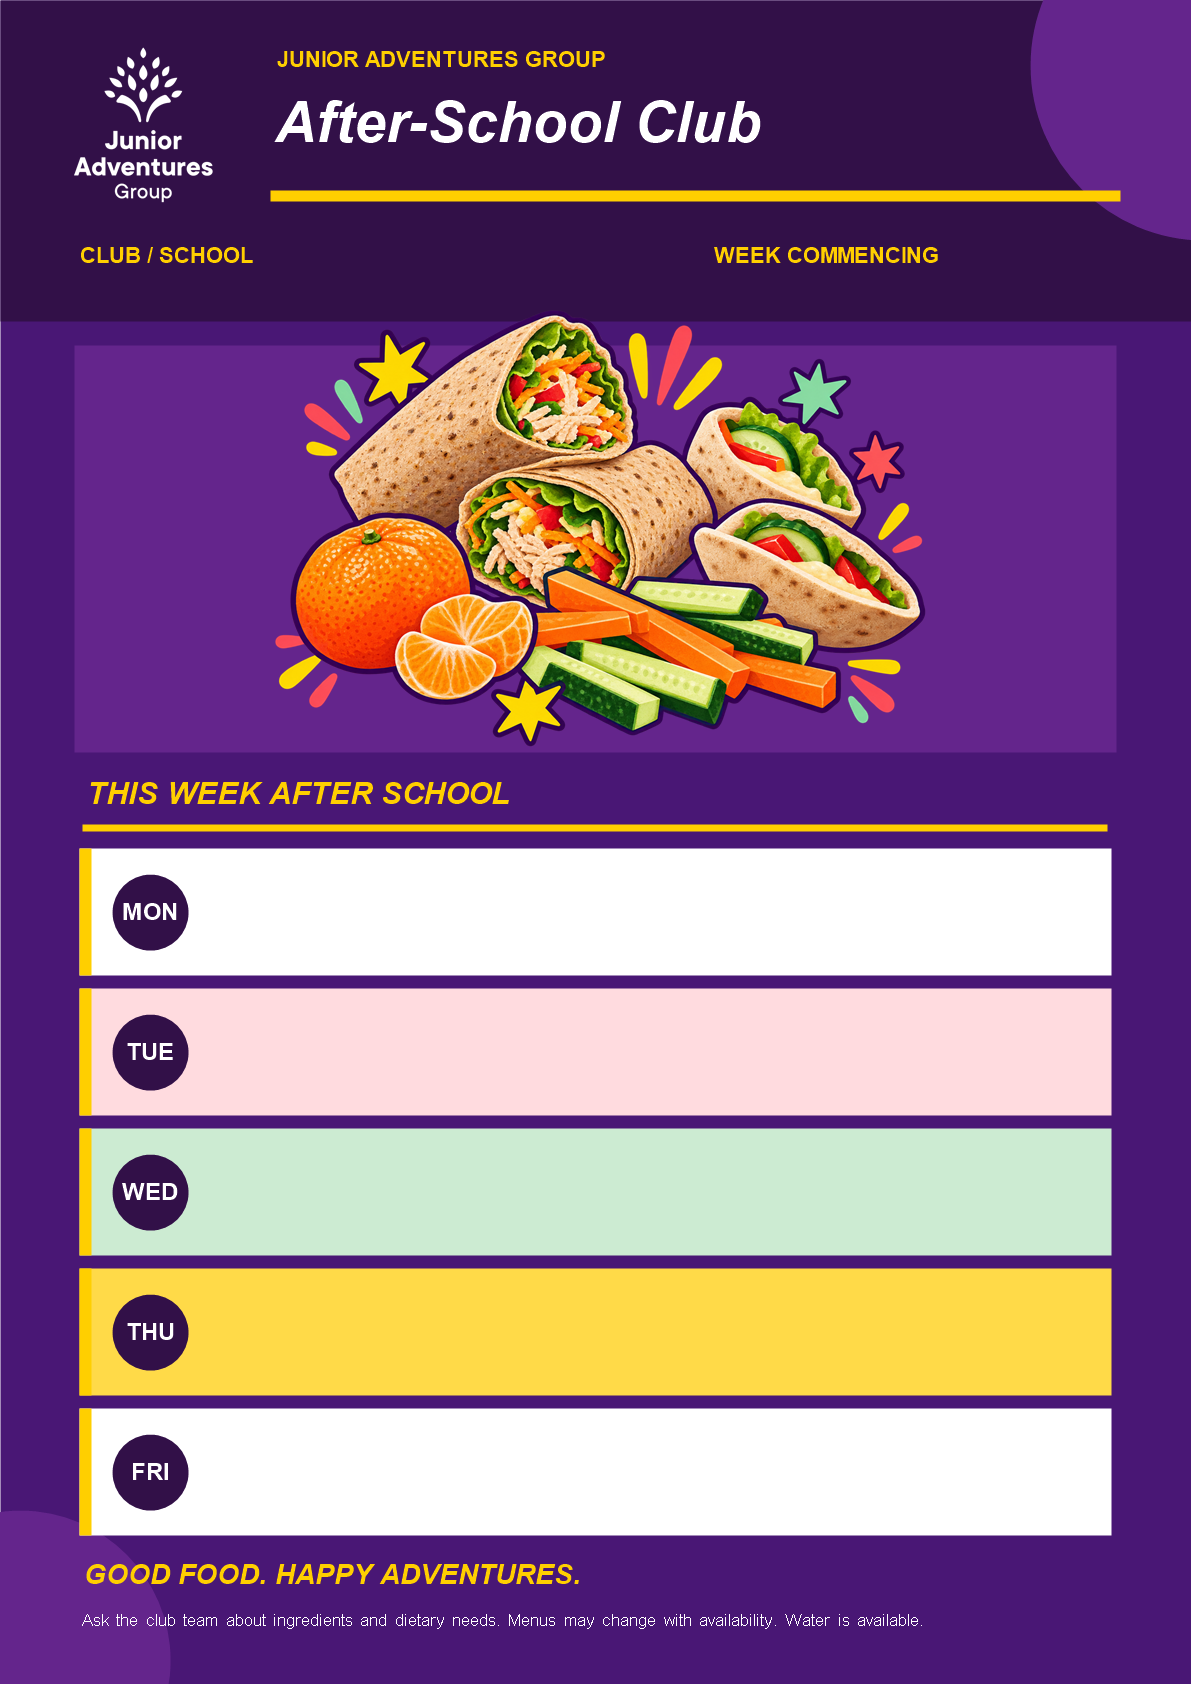
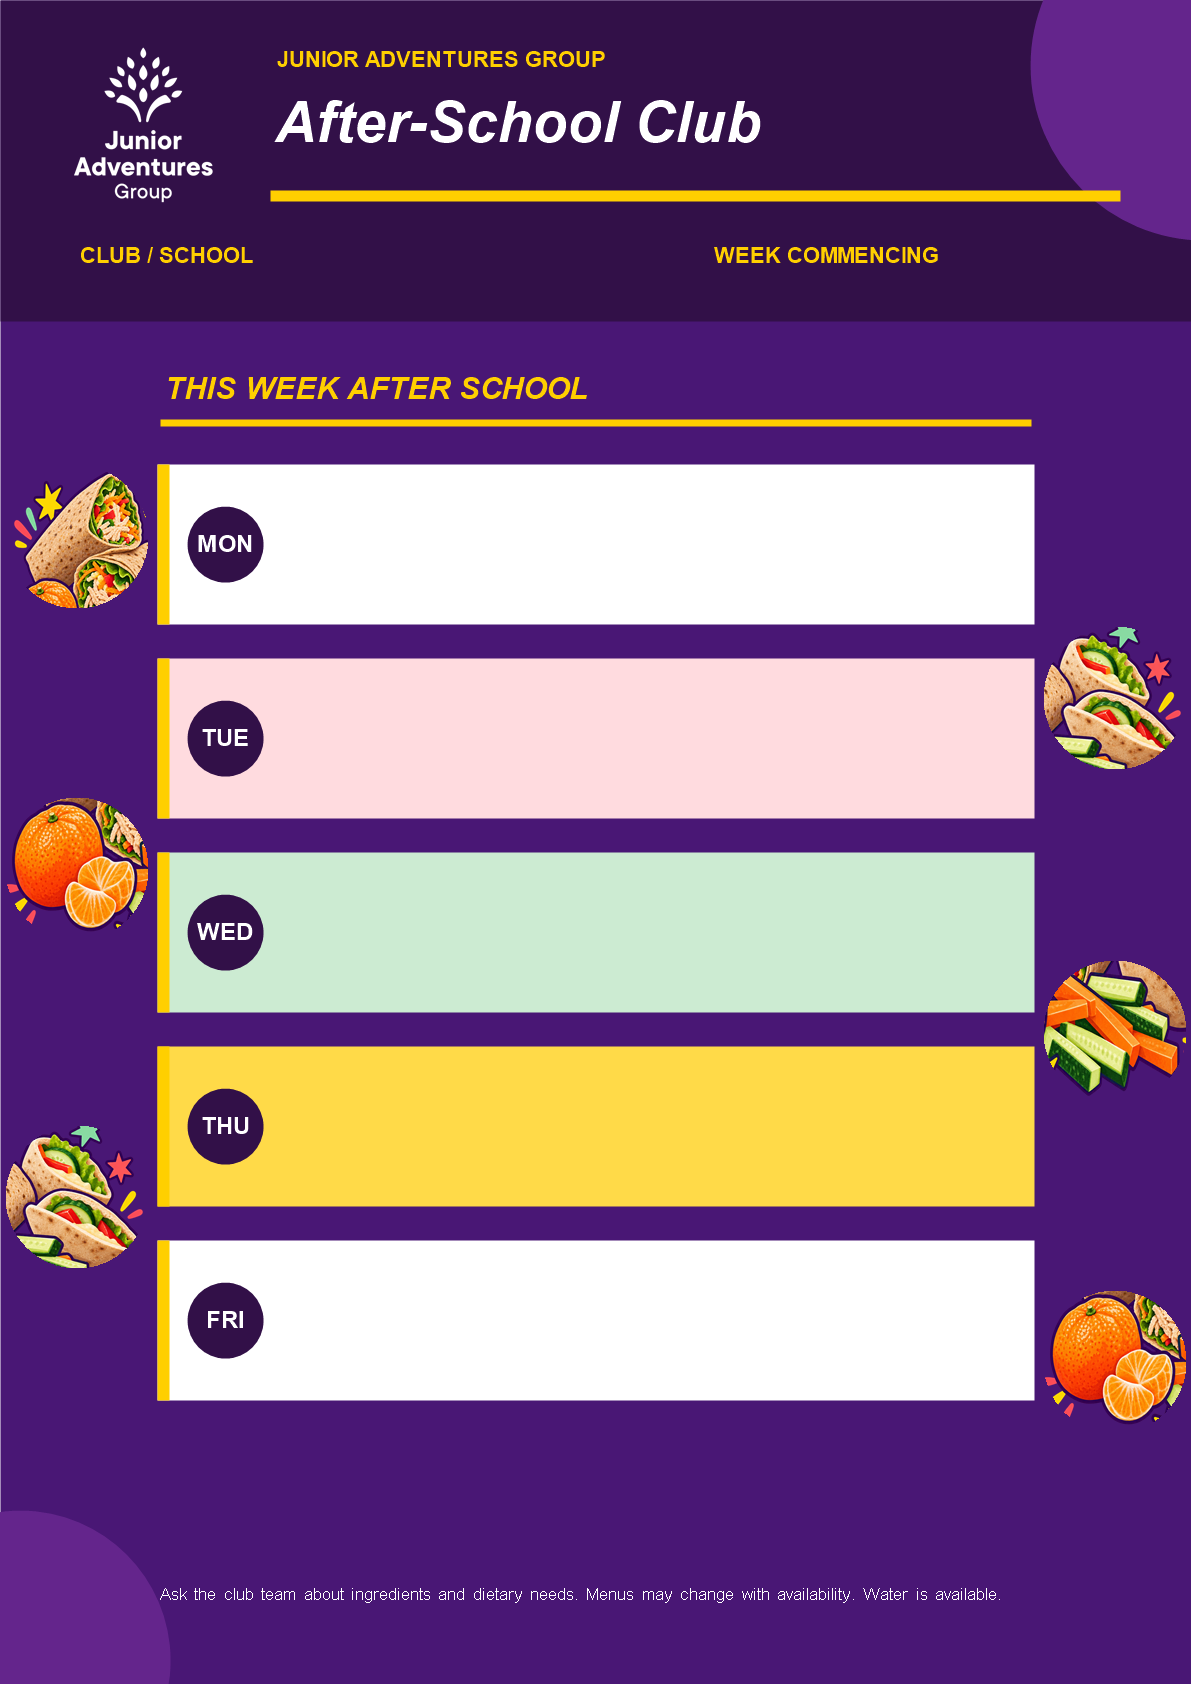
Use edge food accents in printable menus

diff --git a/pdf-output.js b/pdf-output.js
@@ -18,15 +18,15 @@ async function create({state,result,type='menu'},options={}){
  async function menu(){
   for(const session of sessions){
    const isBreakfast=session==='breakfast',asset=isBreakfast?'menu-template-breakfast.png':'menu-template-after-school.png';
-   let template;try{const bytes=(isBreakfast?options.breakfastTemplateBytes:options.afterTemplateBytes)||await fetch(new URL('assets/'+asset,document.baseURI)).then(r=>{if(!r.ok)throw Error();return r.arrayBuffer();});template=await pdf.embedPng(bytes);}catch{throw Error('Menu template could not load. Refresh and try again.');}
+   let template;try{const bytes=(isBreakfast?options.breakfastTemplateBytes:options.afterTemplateBytes)||await fetch(new URL('assets/'+asset+'?v=2',document.baseURI)).then(r=>{if(!r.ok)throw Error();return r.arrayBuffer();});template=await pdf.embedPng(bytes);}catch{throw Error('Menu template could not load. Refresh and try again.');}
    const p=pdf.addPage([W,H]);p.drawImage(template,{x:0,y:0,width:W,height:H});
    fit(p,state.club,40,H-149,286,16,10,white,bold);
    fit(p,date(),355,H-149,195,15,10,white,bold);
    for(let i=0;i<5;i++){
     const day=result.days.find(item=>item.index===i&&item.session===session);
     const desc=!day||!day.count?'Club closed':day.recipe+' + '+day.fruit;
-    const baseline=H-(848+i*140+73)/2;
-    fit(p,desc,110,baseline,435,16,11,ink,bold);
+    const baseline=H-(464+i*194+87)/2;
+    fit(p,desc,145,baseline,355,16,11,ink,bold);
    }
   }
  }

diff --git a/index.html b/index.html
@@ -4,7 +4,7 @@
   <meta charset="utf-8"><meta name="viewport" content="width=device-width,initial-scale=1"><meta name="theme-color" content="#491775">
   <meta name="description" content="Generate an affordable JAG club snack menu and shopping list from your period budget.">
   <title>JAG Snack Planner</title><link rel="icon" href="favicon.svg" type="image/svg+xml"><link rel="stylesheet" href="styles.css?v=2">
-  <script src="catalogue.js?v=2" defer></script><script src="planner.js?v=2" defer></script><script src="vendor/pdf-lib.min.js" defer></script><script src="pdf-output.js?v=4" defer></script><script src="app.js?v=2" defer></script>
+  <script src="catalogue.js?v=2" defer></script><script src="planner.js?v=2" defer></script><script src="vendor/pdf-lib.min.js" defer></script><script src="pdf-output.js?v=5" defer></script><script src="app.js?v=2" defer></script>
 </head>
 <body>
 <header class="topbar"><a href="./" class="brand"><img src="assets/jag-logo.svg" alt="Junior Adventures Group" class="jag-logo"><span>SNACK PLANNER<small>Little appetites. A plan for the week.</small></span></a><span class="staff-tag">FOR CLUB TEAMS</span></header>
